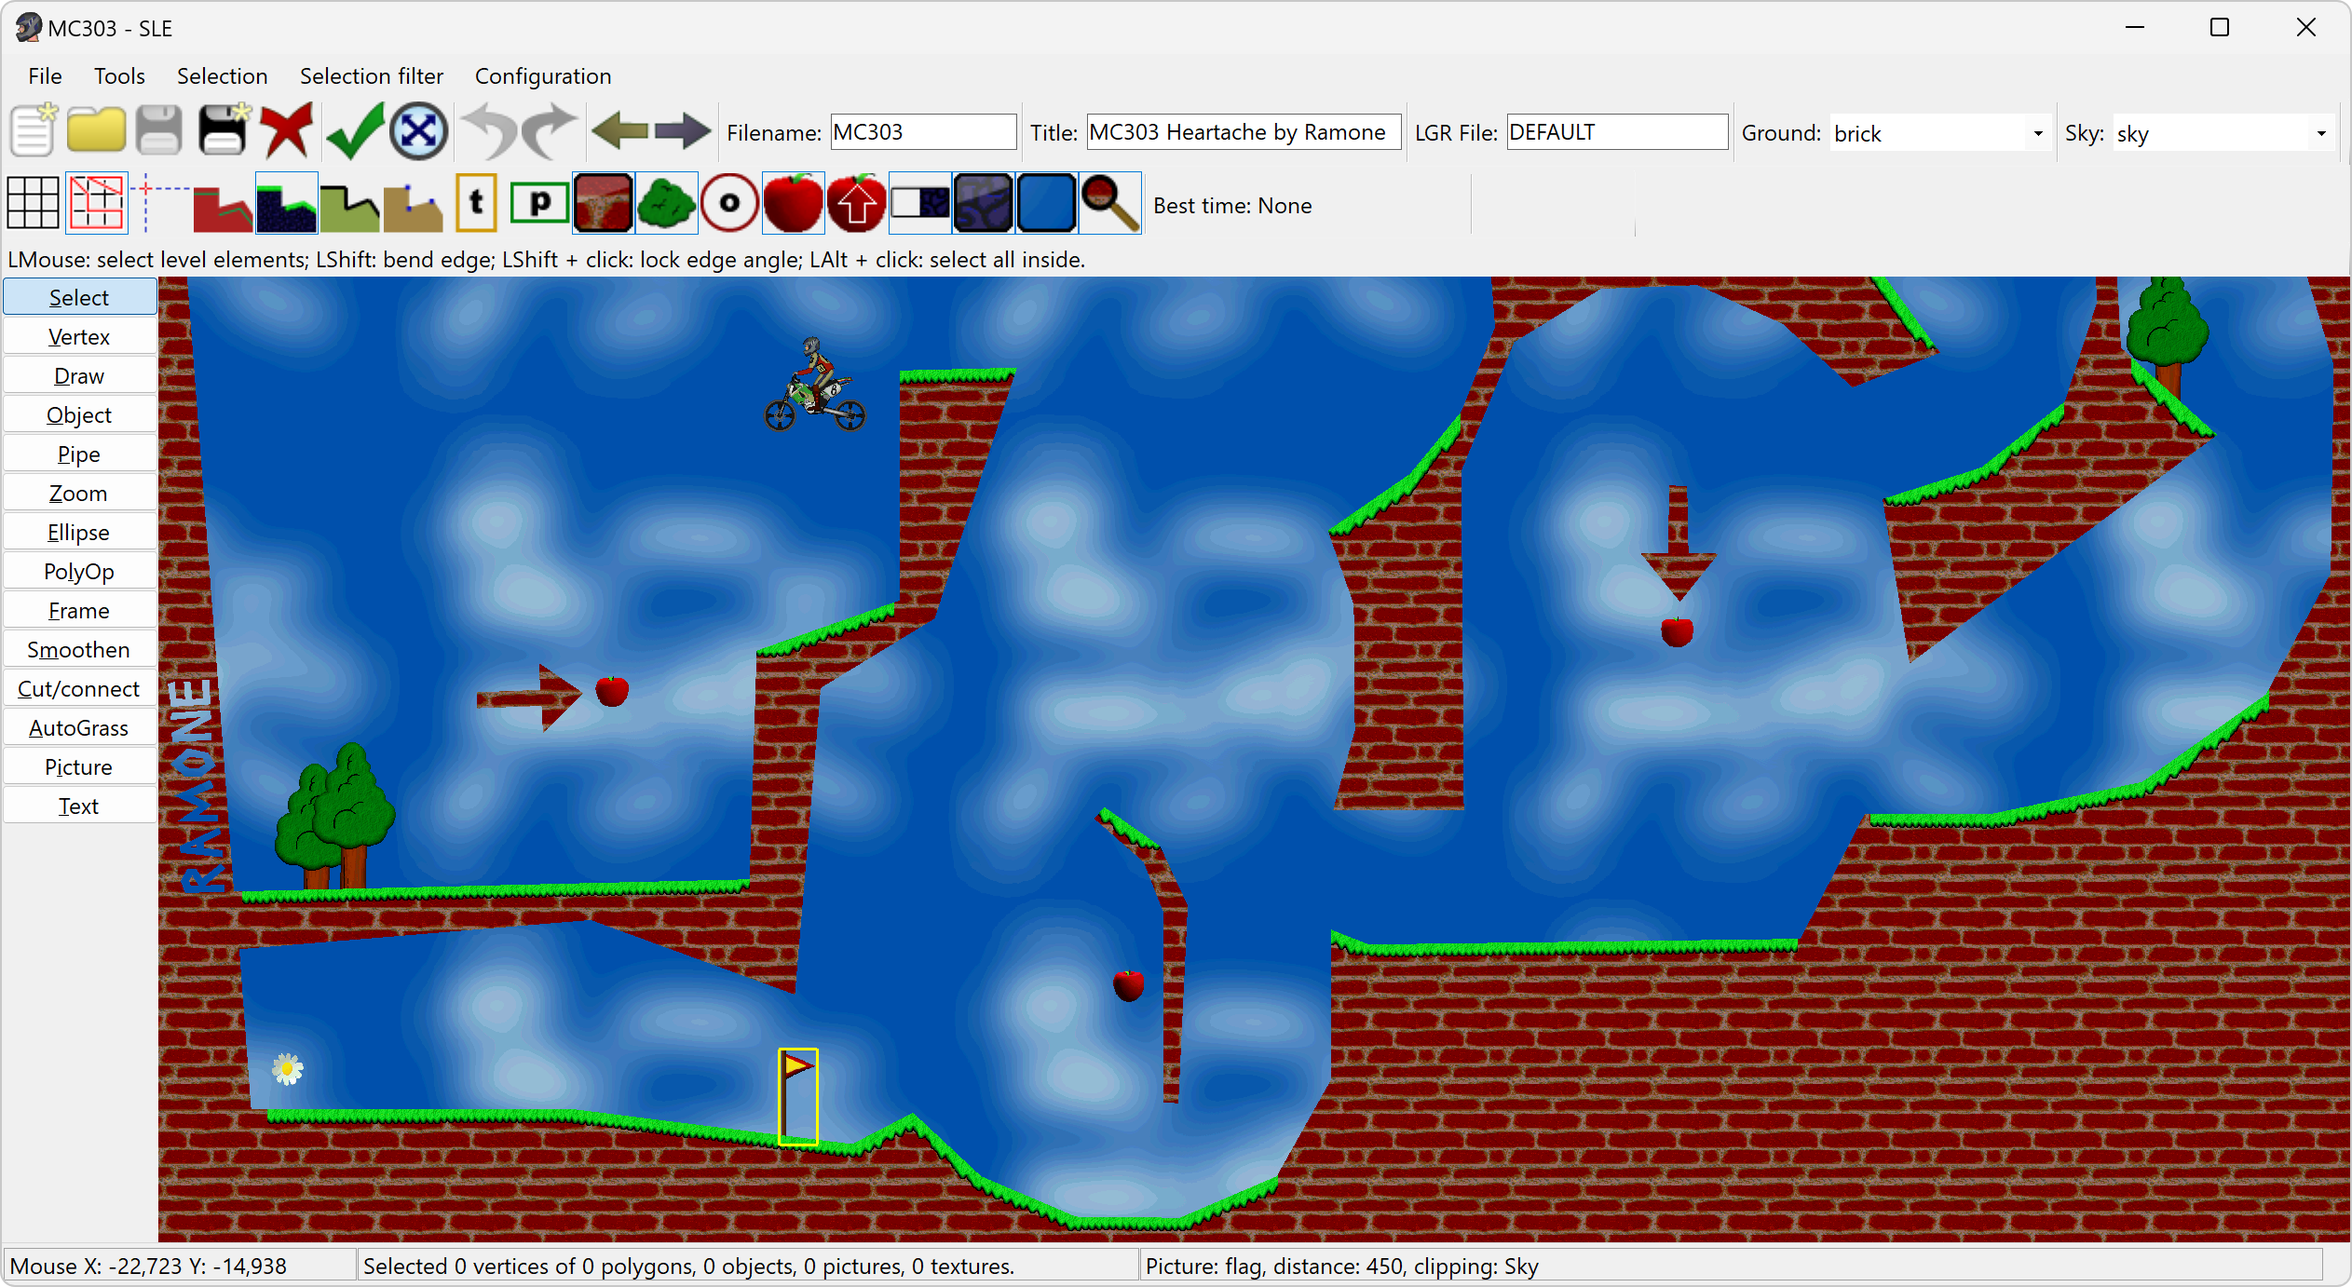
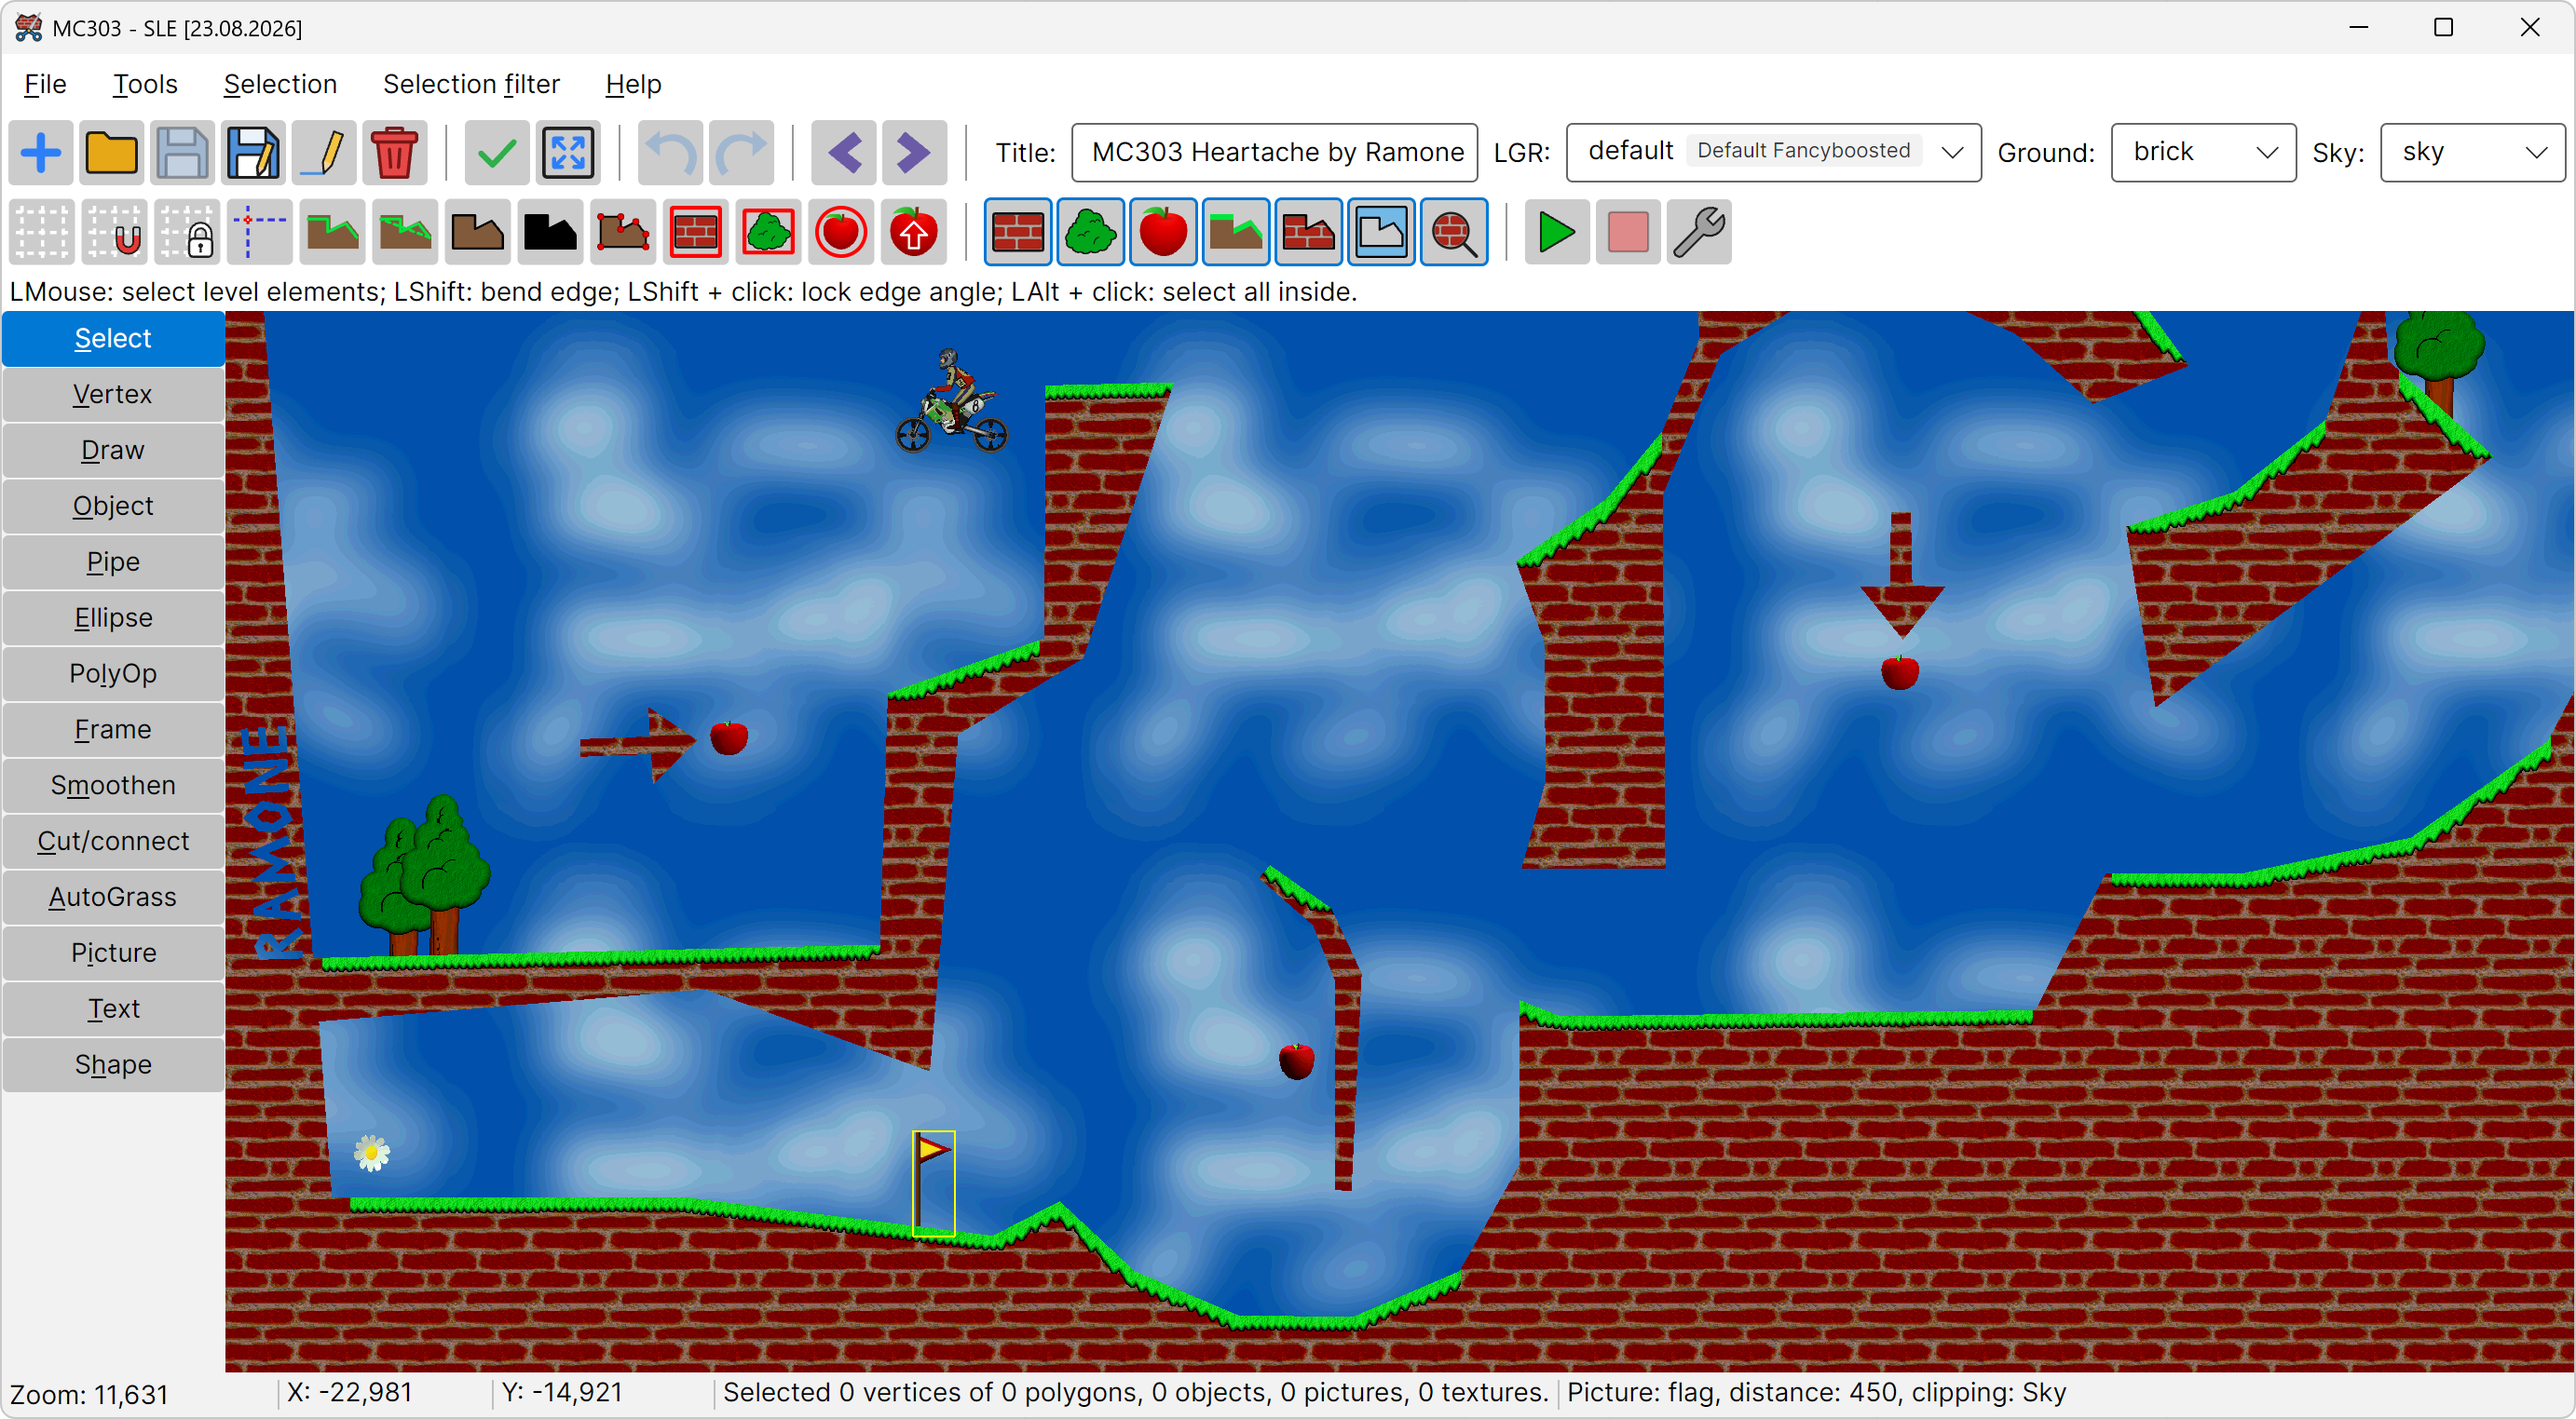
Update readme and screenshots

diff --git a/readme.md b/readme.md
@@ -1,89 +1,30 @@
 # Elmanager
-Elmanager is a tool for managing [Elasto Mania](https://elastomania.com) replays and levels. Most important features include replay/level searching and viewing and a level editor.
 
-## System requirements
-Windows 10/11.
+Elmanager is a collection of tools for [Elasto Mania](https://elastomania.com):
 
-## Installation
-Unzip `Elmanager.zip` to any directory, such as `C:\Elma\Elmanager`. Program settings are also saved in this directory.
+* SLE: level editor, also available on web at https://sle.m-l.fi
+* replay manager: replay searching and viewing
+* level manager: level searching
 
-## Features
-Elmanager has three components: replay manager, level manager and a level editor (named SLE, "Smibu's level editor").
+SLE (in-development Avalonia UI version):
+![SLE](pictures/leveleditor.png)
 
-### Replay manager
+SLE (old Windows Forms version):
+![SLE](pictures/leveleditor_winforms.png)
 
-  -   Replay searching with many parameters
-      -   Internal/external replays
-      -   Finished/unfinished replays
-      -   Singleplayer/multiplayer replays
-      -   Replays driven in Across/Elma levels
-      -   Replays whose time matches the specified range
-      -   Replays driven in specified levels
-      -   Replays with wrong level version
-      -   Replays with a missing level file
-      -   Replays whose filename matches the specified regular expression
-      -   Replays whose appletakes/left volts/right volts/supervolts/turns/groundtouches match the specified ranges
-  -   Duplicate replay search
-  -   Duplicate filename search
-  -   Fastest/slowest replay search (return only one replay per level)
-  -   Replay renaming
-  -   Replay mass renaming using pattern
-  -   Replay list that displays properties of replays
-      -   Filename
-      -   Filename of level
-      -   Time
-      -   Whether the replay is finished/unfinished
-      -   Multiplayer/singleplayer
-      -   Whether the level exists for the replay
-      -   Whether the level version is wrong
-      -   Hover mouse cursor above a replay to show more information (appletakes, left volts, etc.)
-  -   Replay viewer
-      -   Watch as many players in the same level as you want simultaneously
-      -   Choose LGR file in configuration window to play the replay with same graphics as in game
-      -   Customizable colors for apples, killers, active/inactive player, flower, start object, driving lines, ground and sky
-      -   Event list displaying the selected events for selected player
-      -   Fullscreen mode
-  -   Replay comparison
-      -   Compare replays by apples or groundtouches
-  -   Open level file of a replay with the default program
-  -   Save properties of selected replays to a text file
-  -   Merge two singleplayer replays to a multiplayer replay
+Replay manager:
+![Replay manager](pictures/RM.png)
 
-![Main window](pictures/RM.png)
-
+Replay viewer:
 ![Replay viewer](pictures/RMviewer.png)
 
-### Level manager
+Level manager:
+![Level manager](pictures/LM.png)
 
-- Search levels
-  - File name
-  - Best time (single/multi)
-  - Number of replays
-  - Number of grass/ground polygons/vertices
-  - Nicknames in best times
-  - Number of (gravity up/down/left/right) apples/killers/flowers
-- Delete selected times from top 10
-- View replays in a level
+## System requirements
 
-![Main window](pictures/LM.png)
+Windows 10/11. The in-development version is cross-platform.
 
-### Level editor (SLE)
+## Installation
 
-  -   Create pipes
-  -   Create ellipses
-  -   Continuous topology checking
-  -   Frame polygons
-  -   Cut/connect polygons
-  -   Smoothen/unsmoothen polygons
-  -   Lock mouse horizontally or vertically
-  -   Transform selection
-  -   Autograss
-  -   Quickgrass (apply autograss to all polygons)
-  -   Undo/redo
-  -   Grid, snap to grid
-  -   Mirror level
-  -   Polygon boolean operations (union, difference, intersection, symmetric difference)
-  -   Create text with almost any system font
-  -   Many customizable options (e.g. colors)
-
-![Main window](pictures/leveleditor.png)
+Unzip `Elmanager.zip` to any directory, such as `C:\Elma\Elmanager`. Program settings are also saved in this directory.
